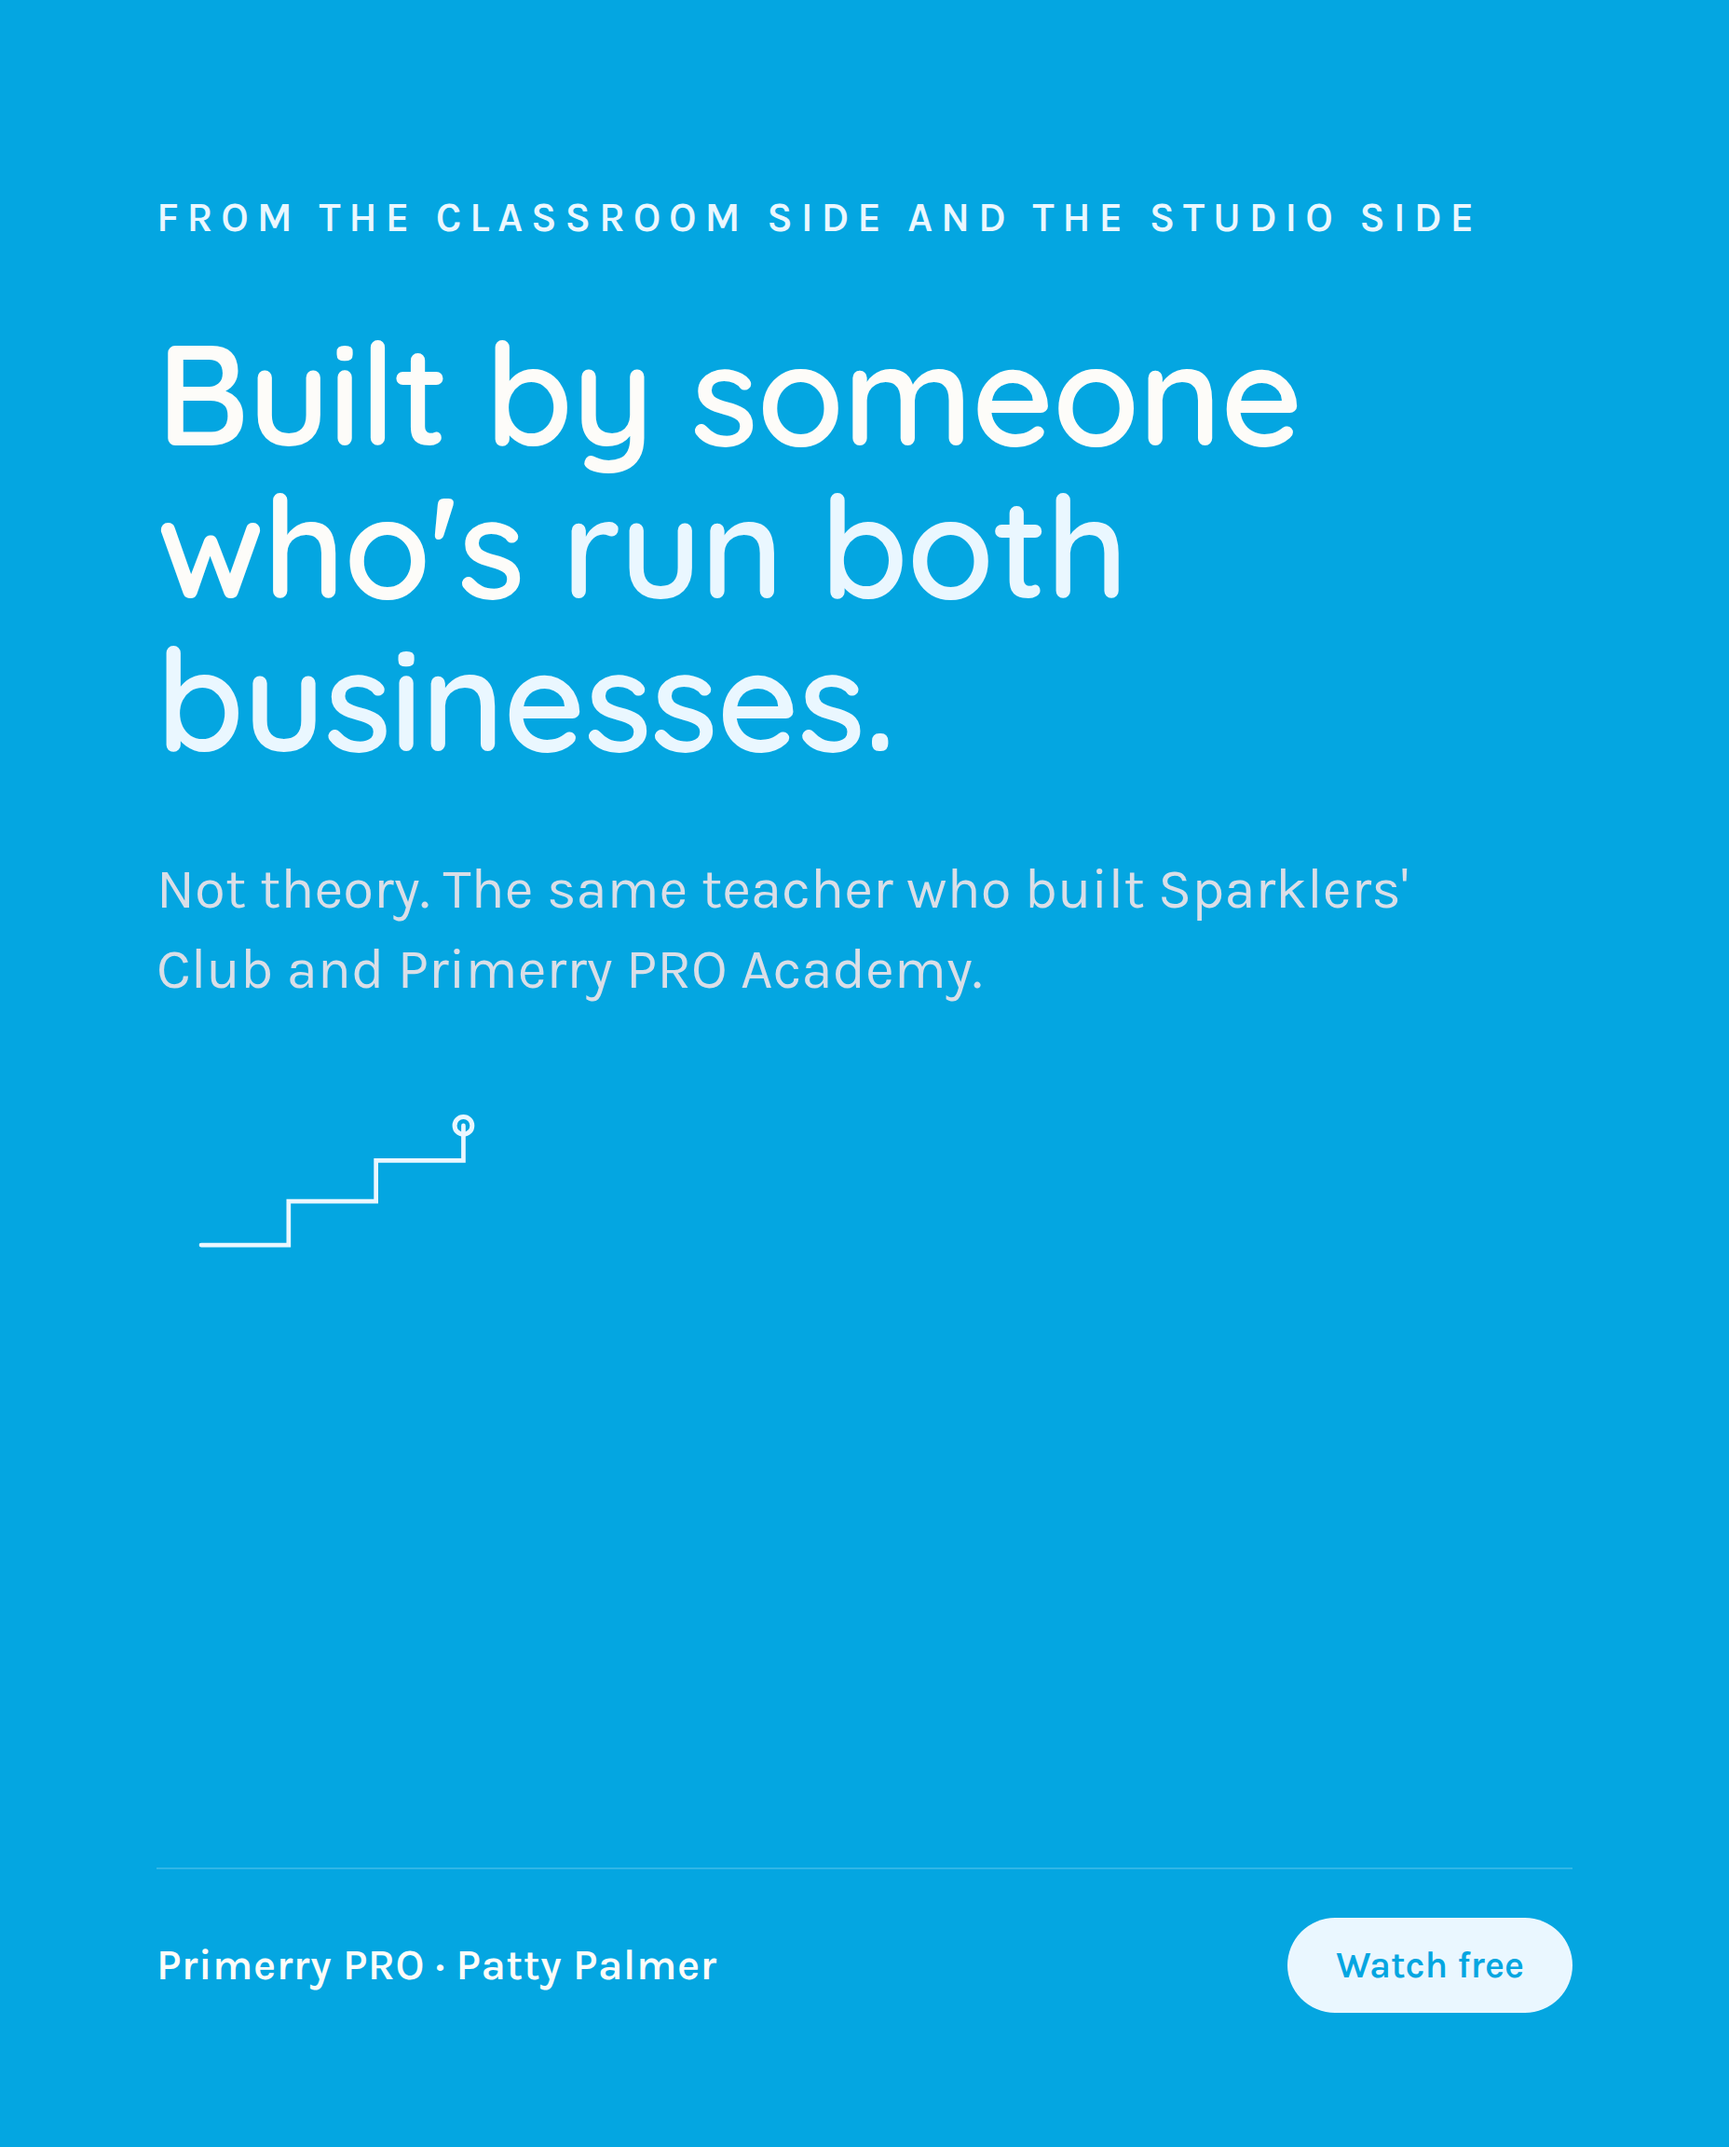
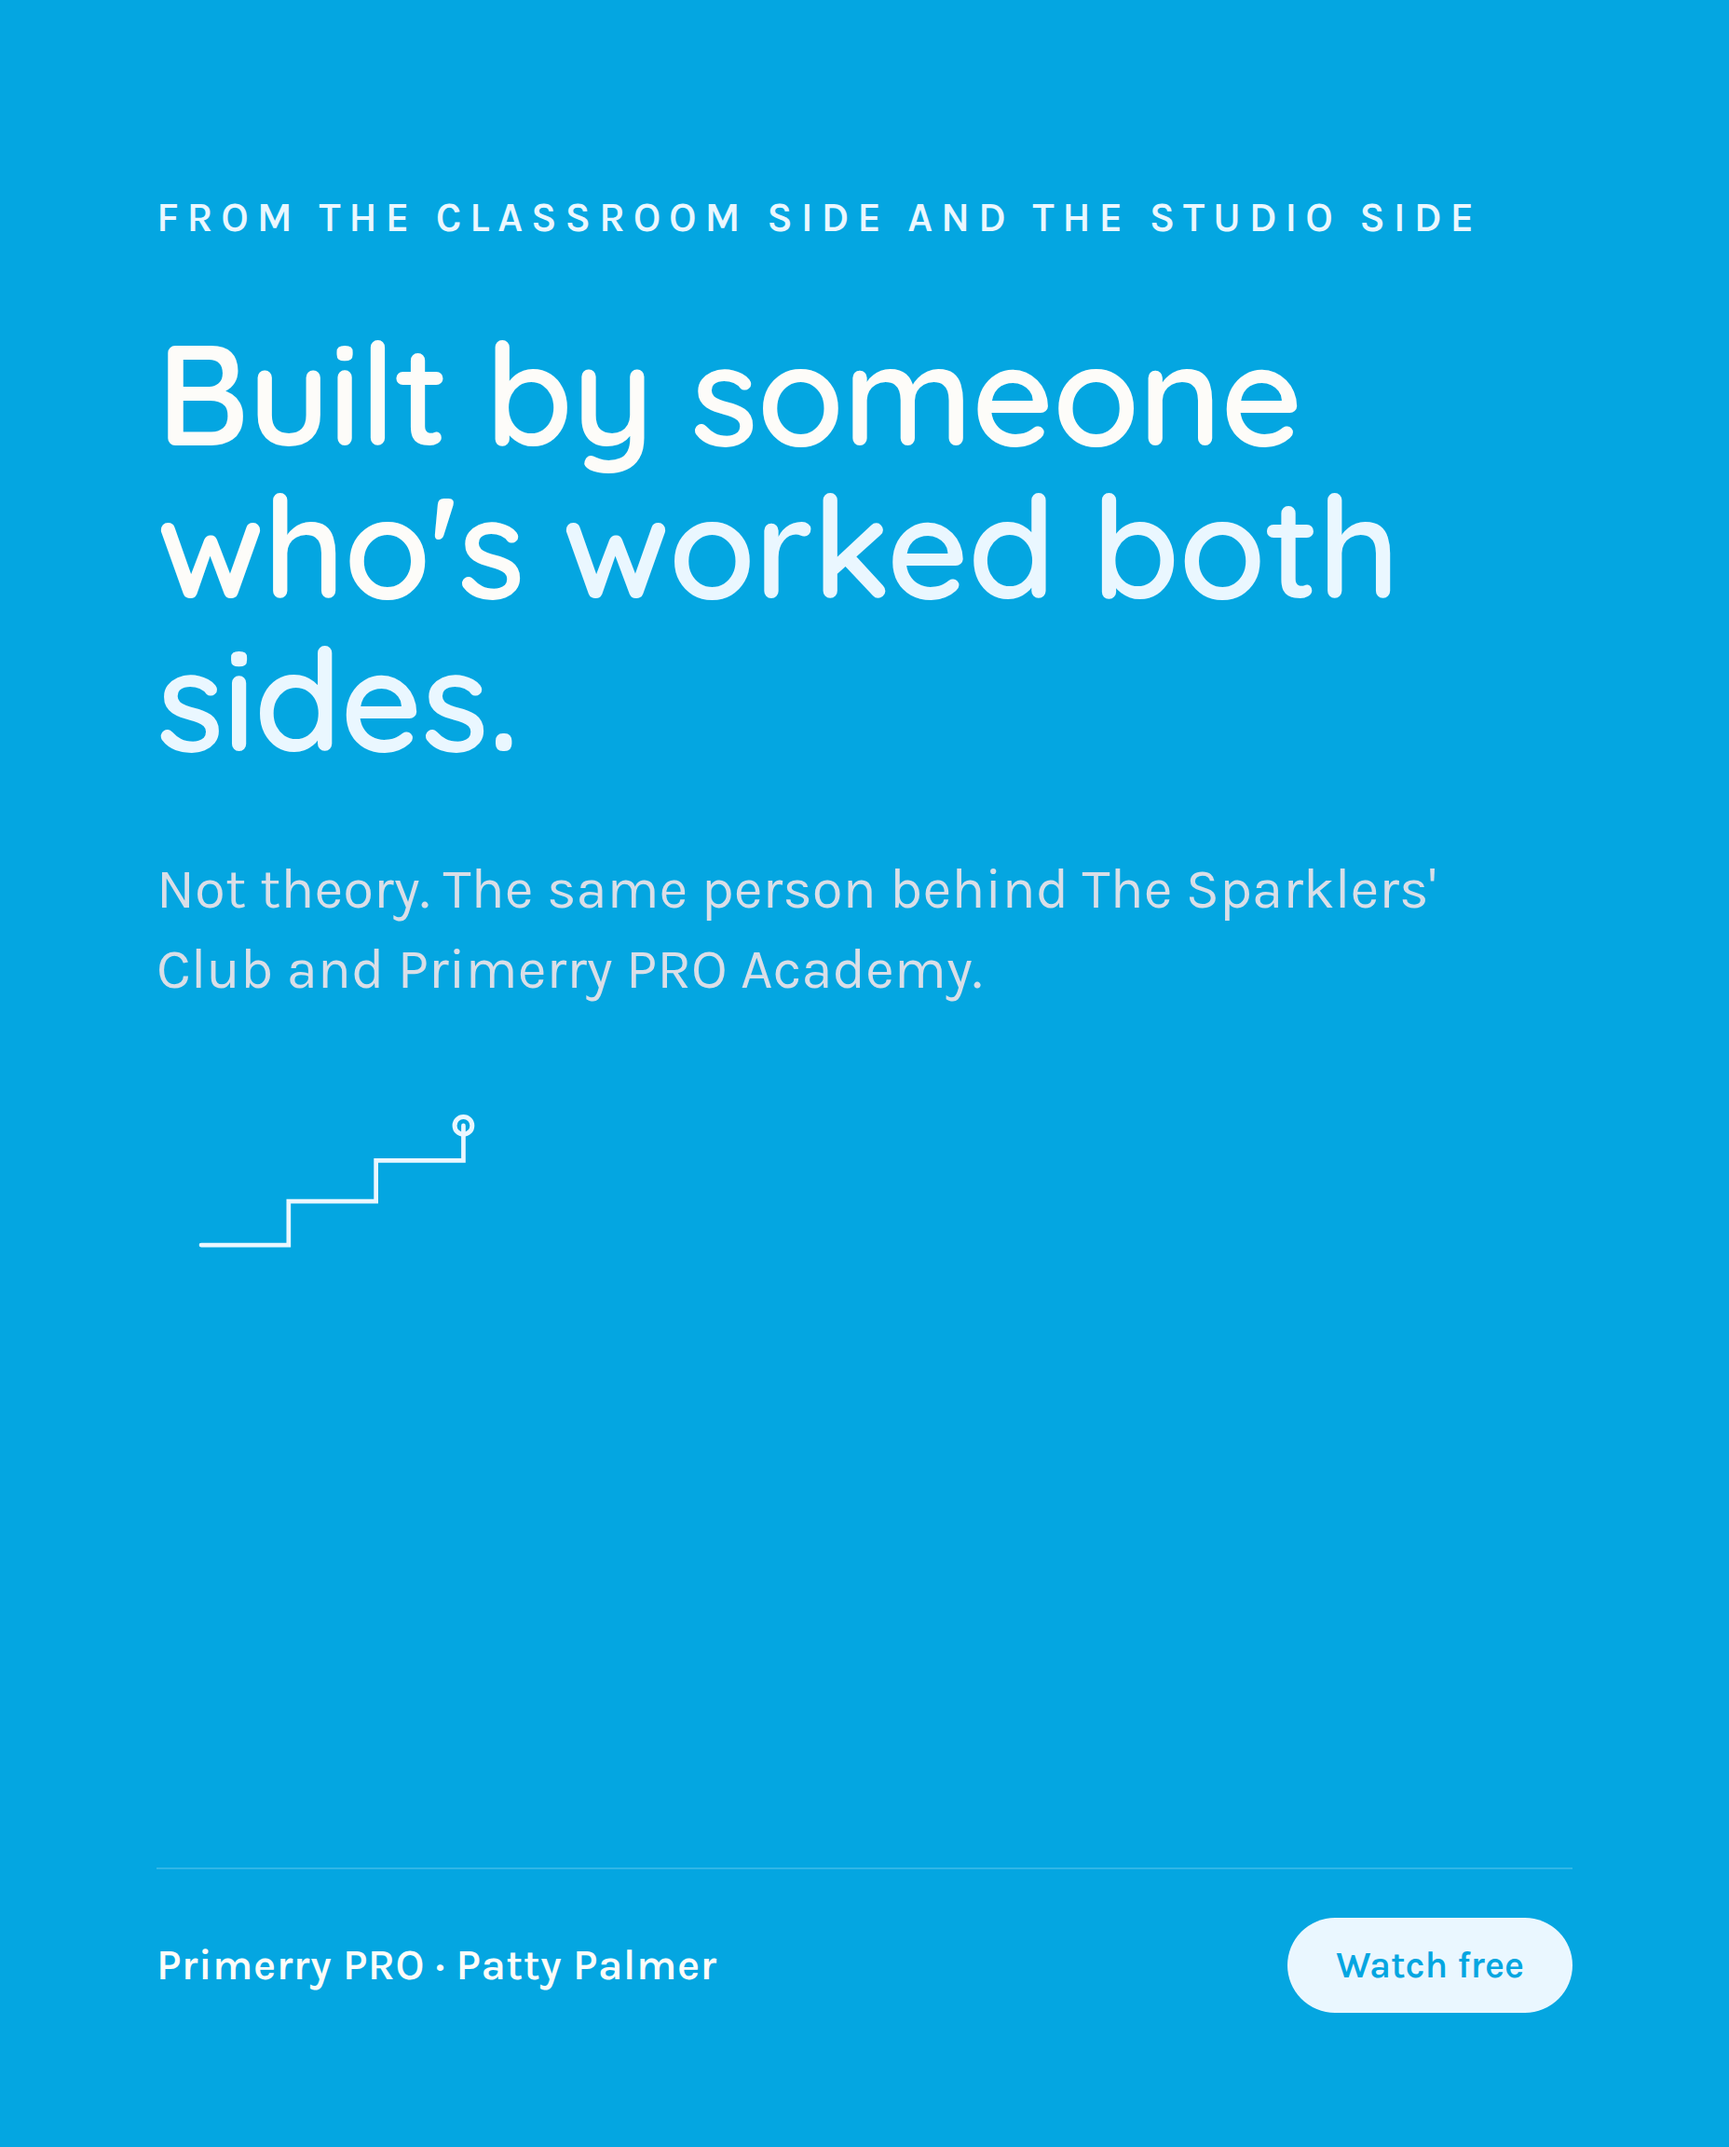
showcase: patty-palmer

Changed region(s): [[0.3125, 0.2188, 0.8125, 0.2812], [0.0938, 0.3125, 0.5, 0.375], [0.4062, 0.4062, 0.8438, 0.4375]]

diff --git a/patty-palmer/deck.html b/patty-palmer/deck.html
@@ -91,16 +91,16 @@ const S = [
 
  {t:'section',idx:'Part Two',title:'The Studio Lesson vs. the School Lesson'},
  {t:'normal',k:'Teaching your own art classes is not the same as teaching in a school',title:'A paid, parent-facing studio lesson gets designed differently, on purpose.',body:'Pacing built for a customer, not a bell schedule. Presentation built for the moment a parent walks in or opens a photo, not just the finished piece. Projects chosen partly for how they photograph and market themselves. This is the distinction most art-business coaching skips entirely, because most coaches never ran the classroom side to see the difference.'},
- {t:'normal',k:'The 7 types of creative enterprises',title:'Before any of that works, you have to pick the right business model for how you actually want to work.',body:'Studio-based, home-based, online, hybrid, camps-led, party-led, or curriculum-licensing: seven distinct shapes an art-class business can take, matched to your skillset, your background, your available time, and what you actually enjoy. Most owners default into one model instead of choosing it.'},
+ {t:'normal',k:'The 7 types of creative enterprises',title:'Before any of that works, you have to pick the right business model for how you actually want to work.',body:'Seven distinct shapes an art-class business can take, matched to your skillset, your background, your available time, and what you actually enjoy. Most owners default into one model instead of choosing it on purpose.'},
  {t:'normal',k:'Where your studio actually fits',title:'The right model still has to fit where you live and how you want to run your life.',body:'A structured pass on matching the business model to your local resources, whether you want this full-time or as a side income, and what a realistic version of "hybrid" looks like for your actual town, not a hypothetical one.'},
  {t:'dark',title:'Pick the model on purpose. Then design the lesson like a business, not a plan.'},
 
  {t:'section',idx:'Part Three',title:'Building It Into Your Own Studio'},
  {t:'normal',k:'What changes first',title:'Owners usually start with the same three things: which model they are actually running, how a single class is paced, and what gets shown after.',body:'Once the model is chosen on purpose and a class is designed to be a performance instead of a plan, the same roster starts re-enrolling for reasons that have nothing to do with running more ads.'},
- {t:'normal',k:'Why Patty Palmer',title:'She built the classroom-teacher business and the studio-owner business, not just one of them.',body:'Patty founded Deep Space Sparkle and grew The Sparklers\' Club, a membership for classroom art teachers now in its 8th year with over 1,000 members. She has also run Primerry, an at-home art-lesson subscription, alongside Primerry PRO, the business coaching for studio owners. Seeing both sides is exactly what makes the studio-lesson distinction hers to teach.'},
+ {t:'normal',k:'Why Patty Palmer',title:'She built the classroom-teacher business and the studio-owner business, not just one of them.',body:'Patty founded Deep Space Sparkle and grew The Sparklers\' Club, a long-running membership for classroom art teachers with over 1,000 members. She has also run Primerry, an at-home art-lesson subscription, alongside Primerry PRO, the business coaching for studio owners. Seeing both sides is exactly what makes the studio-lesson distinction hers to teach.'},
 
  {t:'section',idx:'Your Next Step',title:'Choose the Model, Then Build the Lesson'},
- {t:'normal',k:'How Primerry PRO works',title:'The Academy is a business course plus an 8-week cohort community, built around the 7 types and the studio-lesson distinction.',body:'One enrollment window a year, alongside the ongoing Primerry PRO Studio membership: monthly Art Kits, marketing assets, a private community, and monthly group Mentor Calls with Patty for owners who want support between Academy cohorts.'},
+ {t:'normal',k:'How Primerry PRO works',title:'The Academy is a business course with a cohort community built in, built around the 7 types and the studio-lesson distinction.',body:'One enrollment window a year, alongside the ongoing Primerry PRO Studio membership: monthly Art Kits, marketing assets, a private community, and monthly group Mentor Calls with Patty for owners who want support between Academy cohorts.'},
  {t:'cta',title:'Ready to build the business that fits you, and teach the lesson that keeps them coming back?',chips:['Join the Primerry PRO Waitlist','Explore Primerry PRO Studio'],disc:'Educational content for art studio business owners. No income, enrollment, or business result is guaranteed. Results vary by business, market, and effort.'},
 ];
 

diff --git a/patty-palmer/index.html b/patty-palmer/index.html
@@ -96,7 +96,7 @@
   <div class="section">
     <div class="section-label">What the paid engine could produce</div>
     <h2>The numbers</h2>
-    <p>Figures in USD. Estimates from coaching businesses running paid traffic into a masterclass, scoped to an art-studio-owner audience. Primerry PRO Academy is $2,725, your own published one-time price, used directly below. The ongoing Primerry PRO Studio membership has no published price, so it is left out of this math entirely rather than guessed at, meaning your real per-registrant value is likely higher than what is shown here.</p>
+    <p>Figures in USD. Estimates from coaching businesses running paid traffic into a masterclass, scoped to an art-studio-owner audience. Primerry PRO Academy is $2,725, your own published one-time price, used directly below for the Academy math. The ongoing Primerry PRO Studio membership is priced separately (published around $79/month) and is left out of this table entirely rather than blended in, so your real per-registrant value is likely higher than what is shown here.</p>
     <table>
       <thead>
         <tr><th>Metric</th><th>Conservative</th><th>Moderate</th></tr>
@@ -106,13 +106,16 @@
         <tr><td>Cost per registration</td><td>$18</td><td>$10</td></tr>
         <tr><td>Owner registrations / month</td><td>~83</td><td>~150</td></tr>
         <tr><td>Show rate</td><td>30%</td><td>35%</td></tr>
-        <tr><td>Masterclass viewers</td><td>~25</td><td>~52</td></tr>
+        <tr><td>Masterclass viewers / month</td><td>~25</td><td>~52</td></tr>
         <tr><td>Waitlist join rate</td><td>10%</td><td>20%</td></tr>
-        <tr><td>New Academy enrollments (once open)</td><td>~1</td><td>~3</td></tr>
-        <tr class="hl"><td>New revenue added per cohort</td><td>~$2,725</td><td>~$8,175</td></tr>
+        <tr><td>Waitlist joins / month</td><td>~3</td><td>~10</td></tr>
+        <tr><td>Waitlist joins by next Academy opening (12 mo of ads)</td><td>~30</td><td>~125</td></tr>
+        <tr><td>Enrollment rate at opening (of accumulated waitlist)</td><td>3%</td><td>6%</td></tr>
+        <tr><td>New Academy enrollments at next opening</td><td>~1</td><td>~7</td></tr>
+        <tr class="hl"><td>New Academy revenue at next opening</td><td>~$2,725</td><td>~$19,075</td></tr>
       </tbody>
     </table>
-    <p class="fn">The revenue row uses only your published $2,725 Academy price; it does not include the Studio membership, so it understates what a new registrant is actually worth to you. Your Academy content, your cohort, and your Mentor Calls stay exactly as they are; this just keeps the waitlist filling between enrollment windows.</p>
+    <p class="fn">This is a one-time enrollment event at the Academy's next annual opening, not a monthly recurring figure, built from 12 months of ad-driven waitlist growth at the assumption rates above (typical for a waitlist-warmed audience, not confirmed for your list specifically). Your Academy content, your cohort, and your Mentor Calls stay exactly as they are; this just keeps the waitlist filling between enrollment windows.</p>
   </div>
 
   <div class="section">
